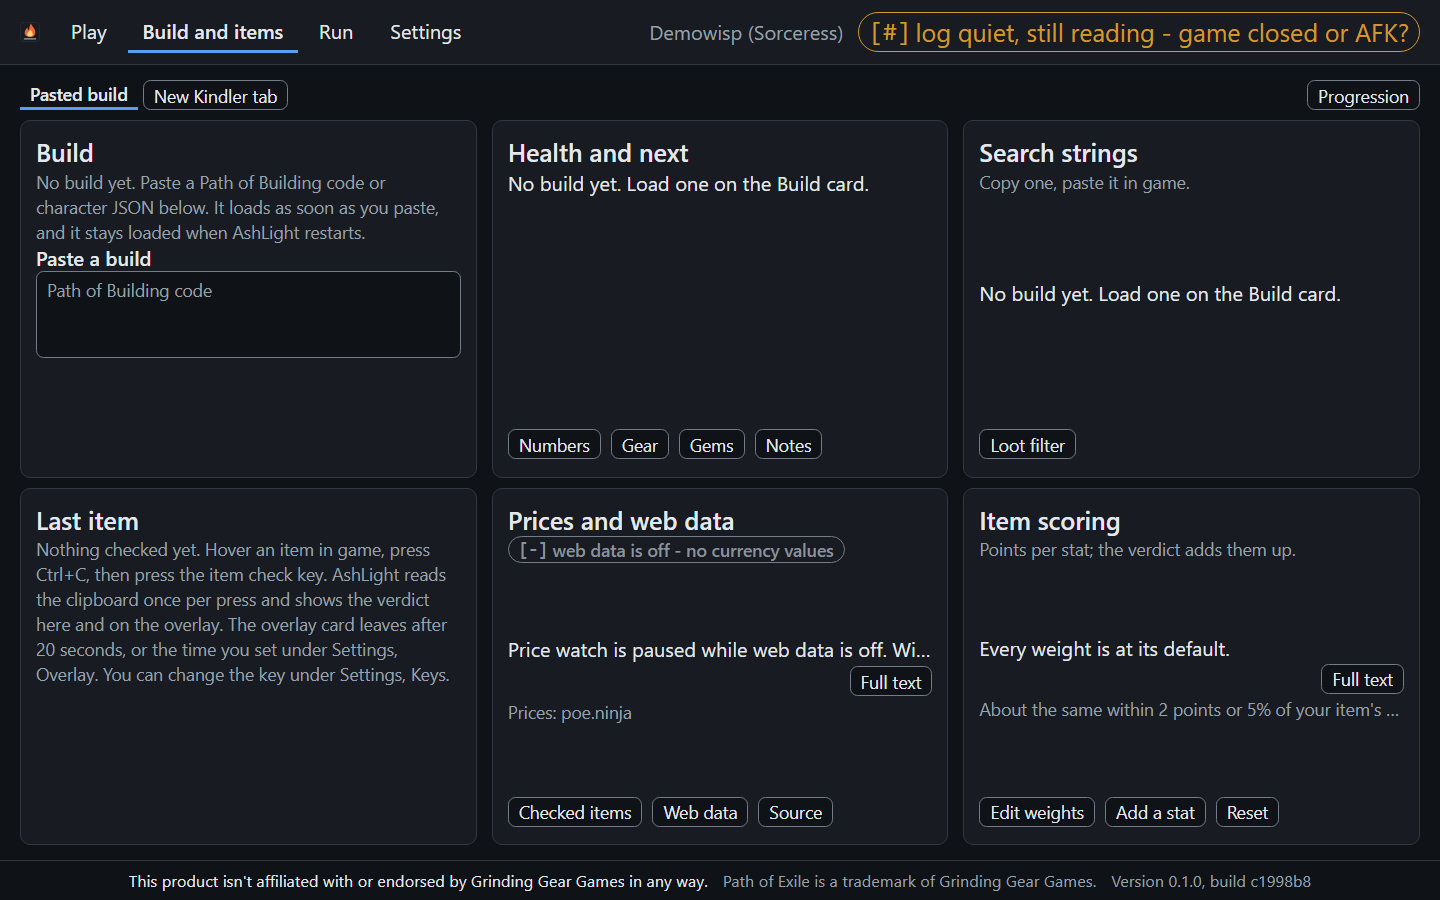
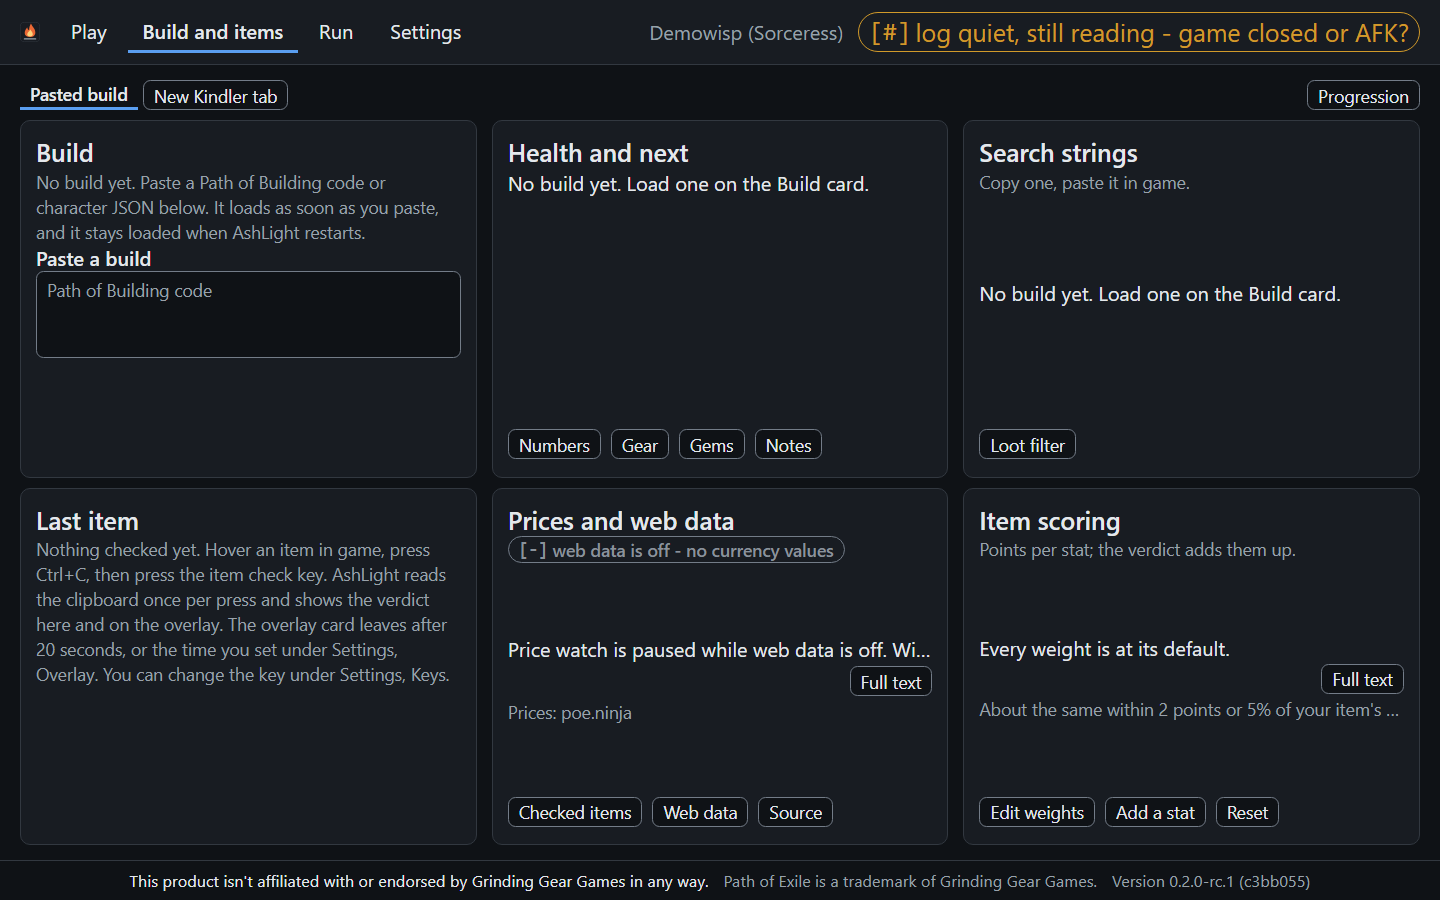
release(REL-RC-LIVE): prepare 0.2.0-rc.1: bump, curated notes, footer fit
REL-PREP steps for 0.2.0-rc.1 (operator order session 46):
- docs_fresh index --write (0 lines) and check ok; shots re-rendered.
- release.py bump 0.2.0-rc.1 (README install stamp, .npmrc UA, package
  files, server/al VERSION).
- notes drafted from 2d11403c..HEAD (no v0.1.0 tag exists, so --from the
  0.1.0 notes commit) and curated into player words; design-reviewer
  findings applied; CHANGELOG.md regenerated.
- Footer fit: "Version 0.2.0-rc.1, build 0123456, dev" wrapped the
  1024x700 footer to 45 px (FOOT_PX 32). footerText now puts the build in
  brackets, "Version 0.2.0-rc.1 (0123456)"; Settings keeps the 12-hex
  "build" line. Design review: pass, nits applied.
- tests/test_version.py bumped a scratch repo to a fixed 0.2.0-rc.0,
  which is no longer above the checkout; it now bumps to the next patch
  rc above the checkout's version.
Gates: whole suite through the gate green (6249 passed), npm test 896 pass.

Changed region(s): [[0.0938, 0.9644, 0.9062, 0.9956]]

diff --git a/web/panels/version.js b/web/panels/version.js
@@ -58,7 +58,8 @@
      RUN-BUILD-STAMP-UI (F-027, decision 0082 part 2): the version line
      from the core's build string '<x.y.z>[+<12 hex>][.dev]':
      "Version 0.1.0, build 0123456789ab", ", dev" while hot reload is on;
-     "" for anything else. */
+     "" for anything else. The footer shows footerText's short form,
+     "Version 0.1.0 (0123456)", the first 7 of the same 12 hex. */
   function versionText(doc) {
     var raw = doc && (typeof doc.build === "string" ? doc.build : doc.version);
     if (typeof raw !== "string" || raw.length > 100) { return ""; }
@@ -80,11 +81,15 @@
      the footer stays one row at 1024 px: the build cut to its first 7 hex
      (always 7 characters, so the row width no longer moves with the
      commit by more than a letter's width); the full 12-hex line stays in
-     Settings > About and data. "" when versionText says nothing. */
+     Settings > About and data. "" when versionText says nothing.
+     REL-PREP 0.2.0-rc.1: a pre-release version is 5 characters longer
+     and wrapped the 1024 px footer to two rows, so the short form puts
+     the build in brackets instead of ", build ": "Version 0.2.0-rc.1
+     (0123456)", no wider than the old "Version 0.1.0, build 0123456". */
   function footerText(doc) {
     var text = versionText(doc);
-    var m = /^(Version [^,]+, build )([0-9a-f]{12})(.*)$/.exec(text);
-    return m ? m[1] + m[2].slice(0, 7) + m[3] : text;
+    var m = /^Version ([^,]+), build ([0-9a-f]{12})(.*)$/.exec(text);
+    return m ? "Version " + m[1] + " (" + m[2].slice(0, 7) + ")" + m[3] : text;
   }
   /* BUILD-STAMP:end */
 

diff --git a/app/test/about.test.js b/app/test/about.test.js
@@ -174,13 +174,17 @@ function webVersionText(name) {
 }
 
 /* WEB-PLAY-FOOT-ONE-ROW: the footer's short form, the same line with the
-   build cut to 7 hex so the footer keeps one row at 1024 px. */
+   build cut to 7 hex in brackets so the footer keeps one row at 1024 px,
+   a pre-release version included. */
 test("dashboard footerText: the version line with the build cut to 7 hex", () => {
   const short = webVersionText("footerText");
   for (const [doc, want] of LINES) {
-    assert.equal(short(doc), want.replace(SHA, SHA.slice(0, 7)), JSON.stringify(doc));
+    assert.equal(short(doc), want.replace(", build " + SHA, " (" + SHA.slice(0, 7) + ")"),
+                 JSON.stringify(doc));
   }
-  assert.equal(short({ build: "0.1.0+" + SHA + ".dev" }), "Version 0.1.0, build 0123456, dev");
+  assert.equal(short({ build: "0.1.0+" + SHA + ".dev" }), "Version 0.1.0 (0123456), dev");
+  assert.equal(short({ build: "0.2.0-rc.1+" + SHA }), "Version 0.2.0-rc.1 (0123456)");
+  assert.equal(short({ build: "0.2.0-rc.1+" + SHA + ".dev" }), "Version 0.2.0-rc.1 (0123456), dev");
 });
 
 test("dashboard versionText says exactly what the About text says", () => {

diff --git a/web/app.css b/web/app.css
@@ -401,7 +401,7 @@ input[type="checkbox"] { width: 24px; height: 24px; vertical-align: middle; }
    the version line to a second row. WEB-PLAY-FOOT-ONE-ROW: the footer
    shows the build cut to 7 hex (web/panels/version.js footerText; the
    12-hex line stays in Settings > About and data), so the longest line
-   ("Version x.y.z, build <7 hex>, dev") keeps one 32 px row at 1024 px
+   ("Version x.y.z-rc.n (<7 hex>), dev") keeps one 32 px row at 1024 px
    whatever the 7 hex letters are (tests/test_play_fit.py FOOT_PX).
    Compact and full hold the footer at 2rem as a minimum, not a fixed
    height, so a 1.4.12 text spacing override or a narrow flow window

diff --git a/app/test/panels.test.js b/app/test/panels.test.js
@@ -923,7 +923,7 @@ test("the consent, restart and version panels hand app.js their hooks on their w
   await tickOver();
   assert.deepEqual(plain(p.calls.api.map((c) => c.slice(0, 2))), [["GET", "/api/version"]]);
   // WEB-PLAY-FOOT-ONE-ROW: the footer cuts the build to 7 hex, Settings keeps 12
-  assert.equal(p.$("build-line").textContent, "Version 0.4.2, build 0123456");
+  assert.equal(p.$("build-line").textContent, "Version 0.4.2 (0123456)");
   assert.equal(p.$("build-line").hidden, false);
   assert.equal(p.$("about-version").textContent, "Version 0.4.2, build 0123456789ab");
   // the next push clears nothing while no restart was asked

diff --git a/tests/test_version.py b/tests/test_version.py
@@ -61,6 +61,13 @@ def _scratch(tmp_path, extra=None):
     return repo
 
 
+def _next_version(old):
+    """A version above the checkout's own, so the scratch bumps keep
+    passing after a real bump (0.2.0-rc.1 -> 0.2.1-rc.0)."""
+    major, minor, patch, _rc = rv.parse(old)
+    return "%d.%d.%d-rc.0" % (major, minor, patch + 1)
+
+
 def _run(*args):
     return subprocess.run([sys.executable, str(RELEASE), *args], cwd=str(ROOT),
                           capture_output=True, text=True, check=False)
@@ -165,7 +172,7 @@ def test_bump_rewrites_the_line_below_the_marker(tmp_path):
     readme = ("<!-- %s -->\n```powershell\nirm 'X/%s' | iex\n```\nkeep %s\n"
               % (marker, old, old))
     repo = _scratch(tmp_path, {"README.md": readme})
-    new = "0.2.0-rc.0"
+    new = _next_version(old)
     proc = _run("bump", new, "--root", str(repo))
     assert proc.returncode == 0, proc.stderr
     assert (repo / "README.md").read_text(encoding="utf-8") == (
@@ -207,7 +214,7 @@ def test_bump_on_scratch_changes_exactly_the_version_paths(tmp_path):
         "notes.txt": "unrelated %s\n" % old,
     })
     lock_before = json.loads((repo / rv.LOCK_REL).read_text(encoding="utf-8"))
-    new = "0.2.0-rc.0"
+    new = _next_version(old)
     proc = _run("bump", new, "--root", str(repo))
     assert proc.returncode == 0, proc.stderr
     assert _status(repo) == sorted([
@@ -226,8 +233,9 @@ def test_bump_on_scratch_changes_exactly_the_version_paths(tmp_path):
         assert b"\r\n" not in (repo / rel).read_bytes() or \
             b"\r\n" in (ROOT / rel).read_bytes()
     # the next bump goes on from the new version; rc -> release is upward
-    assert _run("bump", "0.2.0", "--root", str(repo)).returncode == 0
-    assert rv.source_version(repo) == "0.2.0"
+    release = new.split("-")[0]
+    assert _run("bump", release, "--root", str(repo)).returncode == 0
+    assert rv.source_version(repo) == release
 
 
 def test_bump_refusals_write_nothing(tmp_path):

diff --git a/tests/test_play_fit.py b/tests/test_play_fit.py
@@ -1665,7 +1665,7 @@ def kindler_page(sizes=KINDLER_SIZES):
     body = htmlscan.cut(body, comments=False, repl="", eat_space=True)
     tid, tlabel = kindler_template()
     plan_answer, here = kindler_plan(tid)
-    build_text = f"Version {VERSION}, build {PIN_COMMIT}, dev"  # web/panels/version.js
+    build_text = f"Version {VERSION} ({PIN_COMMIT[:7]}), dev"  # web/panels/version.js footerText
     js = (_KINDLER_JS.replace("__OUT__", json.dumps(KINDLER_OUT))
           .replace("__BUILD__", json.dumps(build_text))
           .replace("__TABS__", str(KINDLER_TABS)).replace("__LABEL__", json.dumps(KINDLER_LABEL))

diff --git a/server/al/__init__.py b/server/al/__init__.py
@@ -4,7 +4,7 @@ A companion app for Path of Exile 2. It only reads the game's Client.txt log
 (after the user's opt-in) and never touches the game process or sends input.
 """
 
-VERSION = "0.1.0"
+VERSION = "0.2.0-rc.1"
 NAME = "AshLight"
 DISCLAIMER = ("This product isn't affiliated with or endorsed by Grinding Gear "
               "Games in any way.")

diff --git a/CHANGELOG.md b/CHANGELOG.md
@@ -2,6 +2,56 @@
 
 Every AshLight version, newest first. Generated from docs/releases/<version>.md by `python tools/release.py notes --changelog`; edit those files, never this one.
 
+## [0.2.0-rc.1] - 2026-11-28
+<!-- lead: hand-written, kept when the notes are regenerated -->
+AshLight 0.2.0-rc.1 is a test version of 0.2.0. AshLight now installs with one line and updates itself. Kindler suggests a build for you, and a new Progression view shows your trees and gems level by level. AshLight's updater only offers full releases, so to try this test version, install it yourself.
+<!-- /lead -->
+
+### Added
+- Install with one line. AshLight installs for your Windows user only, with no admin rights. It downloads the Python and Electron it needs from their makers and checks each download against a known hash. An uninstall script removes AshLight and keeps your saved data unless you ask it to remove that too.
+- AshLight updates itself. While web data is on, it checks for a new full release once a day, downloads it and verifies it. After a 24 hour wait it installs the update the next time AshLight starts. If the new version won't start, AshLight goes back to the old one. To update now, click 'Update now' in Settings. To approve each update yourself, turn on click-only updates.
+- 'Start with Windows', off by default, in the tray menu and in Settings. When on, AshLight starts in the tray and the overlay waits for the game.
+- Kindler, a build generator. Pick a style (melee, spells, minions or bows) and click Generate. Path of Building scores AshLight's own build plans and shows the best one. The plan runs from act 1 to early maps. It lists skills and supports, when each gem unlocks, passives in order, the ascendancy, and what to look for on each item slot. With 'Follow Play guidance' on, the plan follows your zone and level.
+- Choose the build Play follows: the build you pasted, or a Kindler plan.
+- Progression view: your passive and ascendancy trees, your skill gems with their supports, and a 'Next up' list. When you level up, AshLight shows it where the item card was. A pasted build with trees for different level ranges switches to the tree for your level.
+- When you level up, a card names the gems from your build that you can now use.
+- Item info: click an item or gem name to see its base, its price (while web data is on) and where it can be found. Gems also show their level, costs and stats.
+- Mark the item you wear: AshLight then compares each checked item with the item you wear first, and your Path of Building plan second.
+- With no build loaded, the item check still says keep or vendor for your level.
+- Uncut gems: an item check on an uncut gem names the gems in your build that it can become.
+- Augments: with the Path of Building calc on, an item check with a free socket names the augment that helps your build most.
+- Every campaign zone has a guide line, and you can write your own note for any zone.
+- The session summary counts your sales and adds up their listed prices. The total is an estimate.
+- 'This is my character' on the Characters card. AshLight then stays on that character and never switches.
+- Change your hotkeys in the app. If another program already uses a key, AshLight picks a free one and tells you.
+- The overlay shows short cards when you enter a zone and when an act split closes. Until you have used it, it also shows a one-line hint about the item-check key.
+- One-click 'Set up the Path of Building calc' button in the desktop app.
+- Checks gets a 'Tried in game' list, a report preview before you copy it, a note when the game data is older than the game, and an 'Installed copy' row.
+- Screenshots and a four-page player guide on the GitHub project page.
+
+### Changed
+- A new Play screen with a fixed layout that does not scroll, and four tabs: Play, Build and items, Run and Settings. Dark by default, with a Theme choice (Dark, Follow Windows, Light).
+- In the desktop app, cards on Build and items and on Run can be folded to their title.
+- The item check shows its first answer at once, and the Path of Building numbers follow when ready.
+- An empty clipboard at the item-check press now says 'Copy the item first'.
+- The overlay text is easier to read, and its background can be set from 80 to 100 percent solid.
+- When the game wakes, the companion window comes back on your other screen without taking focus.
+- The Path of Building calc stops when idle and starts again on your next press, to free memory.
+- Prices: AshLight now asks poe.ninja for prices less often. Full releases send no poe.ninja requests at all for now, so an installed copy shows a trade search link instead of prices.
+
+### Fixed
+- A dead log reader, core or overlay now starts again by itself, and Stop stops only what was running.
+- A changed poe.ninja format no longer clears your prices: AshLight keeps the last good ones.
+
+### Security
+- The desktop app's windows are locked down. They can only reach AshLight's own local server and can't open other pages. A few named sites open only in your browser.
+- The app checks that it is talking to its own AshLight before it sends anything.
+- AshLight's private files are readable only by you.
+- The Path of Building calc runs locked down: it can't start programs or write files.
+- The desktop app now runs on Electron 45.4.1.
+
+This product isn't affiliated with or endorsed by Grinding Gear Games in any way.
+
 ## [0.1.0] - 2026-11-19
 <!-- lead: hand-written, kept when the notes are regenerated -->
 AshLight 0.1.0 is the first public version: a live second-screen dashboard and a click-through overlay for Path of Exile 2 that read only the game's Client.txt log, with act and map timers, trade cards, and an item check on a hotkey press that weighs an item against your Path of Building build. Everything runs on your own computer, and web data stays off until you turn it on.

diff --git a/docs/releases/0.2.0-rc.1.md b/docs/releases/0.2.0-rc.1.md
@@ -1,0 +1,49 @@
+## [0.2.0-rc.1] - 2026-11-28
+<!-- lead: hand-written, kept when the notes are regenerated -->
+AshLight 0.2.0-rc.1 is a test version of 0.2.0. AshLight now installs with one line and updates itself. Kindler suggests a build for you, and a new Progression view shows your trees and gems level by level. AshLight's updater only offers full releases, so to try this test version, install it yourself.
+<!-- /lead -->
+
+### Added
+- Install with one line. AshLight installs for your Windows user only, with no admin rights. It downloads the Python and Electron it needs from their makers and checks each download against a known hash. An uninstall script removes AshLight and keeps your saved data unless you ask it to remove that too.
+- AshLight updates itself. While web data is on, it checks for a new full release once a day, downloads it and verifies it. After a 24 hour wait it installs the update the next time AshLight starts. If the new version won't start, AshLight goes back to the old one. To update now, click 'Update now' in Settings. To approve each update yourself, turn on click-only updates.
+- 'Start with Windows', off by default, in the tray menu and in Settings. When on, AshLight starts in the tray and the overlay waits for the game.
+- Kindler, a build generator. Pick a style (melee, spells, minions or bows) and click Generate. Path of Building scores AshLight's own build plans and shows the best one. The plan runs from act 1 to early maps. It lists skills and supports, when each gem unlocks, passives in order, the ascendancy, and what to look for on each item slot. With 'Follow Play guidance' on, the plan follows your zone and level.
+- Choose the build Play follows: the build you pasted, or a Kindler plan.
+- Progression view: your passive and ascendancy trees, your skill gems with their supports, and a 'Next up' list. When you level up, AshLight shows it where the item card was. A pasted build with trees for different level ranges switches to the tree for your level.
+- When you level up, a card names the gems from your build that you can now use.
+- Item info: click an item or gem name to see its base, its price (while web data is on) and where it can be found. Gems also show their level, costs and stats.
+- Mark the item you wear: AshLight then compares each checked item with the item you wear first, and your Path of Building plan second.
+- With no build loaded, the item check still says keep or vendor for your level.
+- Uncut gems: an item check on an uncut gem names the gems in your build that it can become.
+- Augments: with the Path of Building calc on, an item check with a free socket names the augment that helps your build most.
+- Every campaign zone has a guide line, and you can write your own note for any zone.
+- The session summary counts your sales and adds up their listed prices. The total is an estimate.
+- 'This is my character' on the Characters card. AshLight then stays on that character and never switches.
+- Change your hotkeys in the app. If another program already uses a key, AshLight picks a free one and tells you.
+- The overlay shows short cards when you enter a zone and when an act split closes. Until you have used it, it also shows a one-line hint about the item-check key.
+- One-click 'Set up the Path of Building calc' button in the desktop app.
+- Checks gets a 'Tried in game' list, a report preview before you copy it, a note when the game data is older than the game, and an 'Installed copy' row.
+- Screenshots and a four-page player guide on the GitHub project page.
+
+### Changed
+- A new Play screen with a fixed layout that does not scroll, and four tabs: Play, Build and items, Run and Settings. Dark by default, with a Theme choice (Dark, Follow Windows, Light).
+- In the desktop app, cards on Build and items and on Run can be folded to their title.
+- The item check shows its first answer at once, and the Path of Building numbers follow when ready.
+- An empty clipboard at the item-check press now says 'Copy the item first'.
+- The overlay text is easier to read, and its background can be set from 80 to 100 percent solid.
+- When the game wakes, the companion window comes back on your other screen without taking focus.
+- The Path of Building calc stops when idle and starts again on your next press, to free memory.
+- Prices: AshLight now asks poe.ninja for prices less often. Full releases send no poe.ninja requests at all for now, so an installed copy shows a trade search link instead of prices.
+
+### Fixed
+- A dead log reader, core or overlay now starts again by itself, and Stop stops only what was running.
+- A changed poe.ninja format no longer clears your prices: AshLight keeps the last good ones.
+
+### Security
+- The desktop app's windows are locked down. They can only reach AshLight's own local server and can't open other pages. A few named sites open only in your browser.
+- The app checks that it is talking to its own AshLight before it sends anything.
+- AshLight's private files are readable only by you.
+- The Path of Building calc runs locked down: it can't start programs or write files.
+- The desktop app now runs on Electron 45.4.1.
+
+This product isn't affiliated with or endorsed by Grinding Gear Games in any way.

diff --git a/docs/design/0001-design-system.md b/docs/design/0001-design-system.md
@@ -204,8 +204,8 @@ under 12px **after** zoom, so the smallest overlay size times the minimum
   stays on each card that shows the credited data (Run > Acts, Build and
   items > Prices, the price row of the item check). The footer keeps the
   GGG disclaimer and trademark lines. The footer's version line shows the
-  build cut to 7 hex (footerText); Settings > About and data shows the
-  full 12.
+  build cut to its first 7 hex in brackets ("Version 0.2.0-rc.1 (0123456)",
+  footerText); Settings > About and data shows "build" and the full 12.
 - Focus ring (TD-22, PLAY-TD-22A-A11Y-CSS): one 3px accent ring for every
   focusable kind, drawn inside the element (outline-offset -3px), so a
   parent that clips its overflow never cuts it; only the one filled

diff --git a/README.md b/README.md
@@ -267,7 +267,7 @@ one line:
 
 <!-- al-version-stamp: release.py bump writes the version into the line below -->
 ```powershell
-irm -UserAgent 'AshLight/0.1.0 (installer)' https://github.com/Remus3/AshLight/releases/latest/download/install.ps1 | iex
+irm -UserAgent 'AshLight/0.2.0-rc.1 (installer)' https://github.com/Remus3/AshLight/releases/latest/download/install.ps1 | iex
 ```
 
 It downloads the small installer of the latest release and runs it. The
